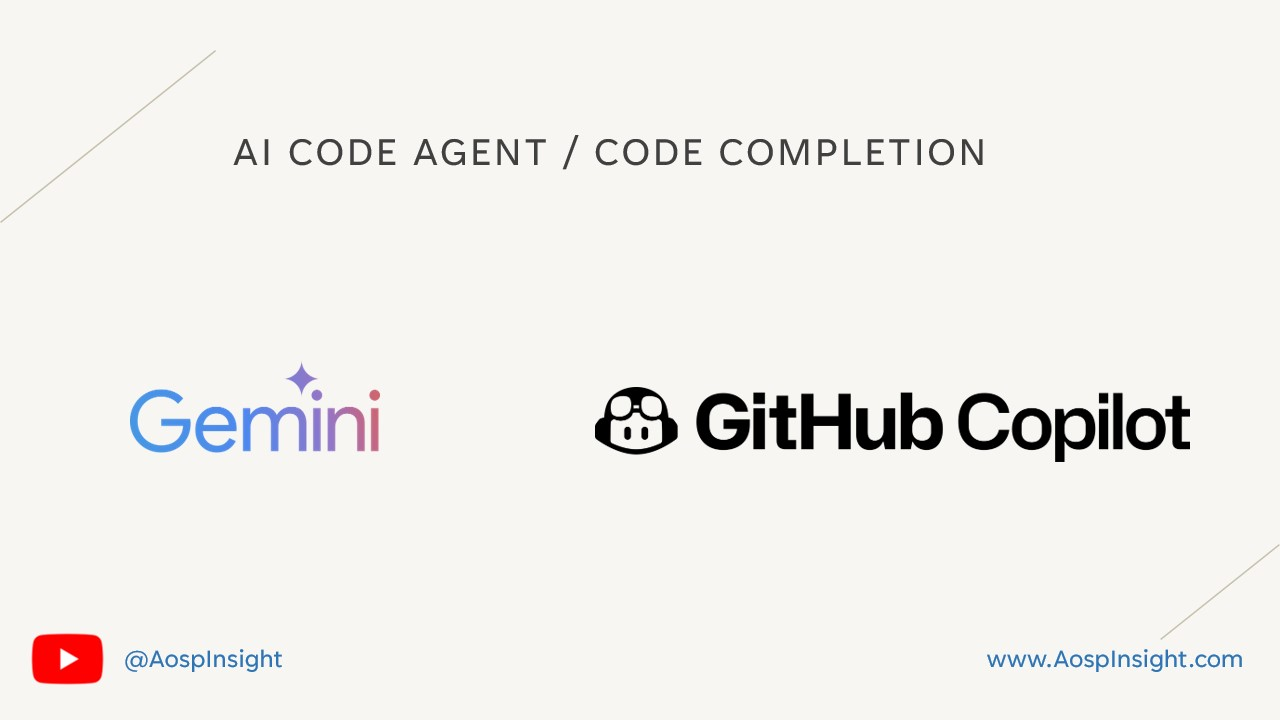
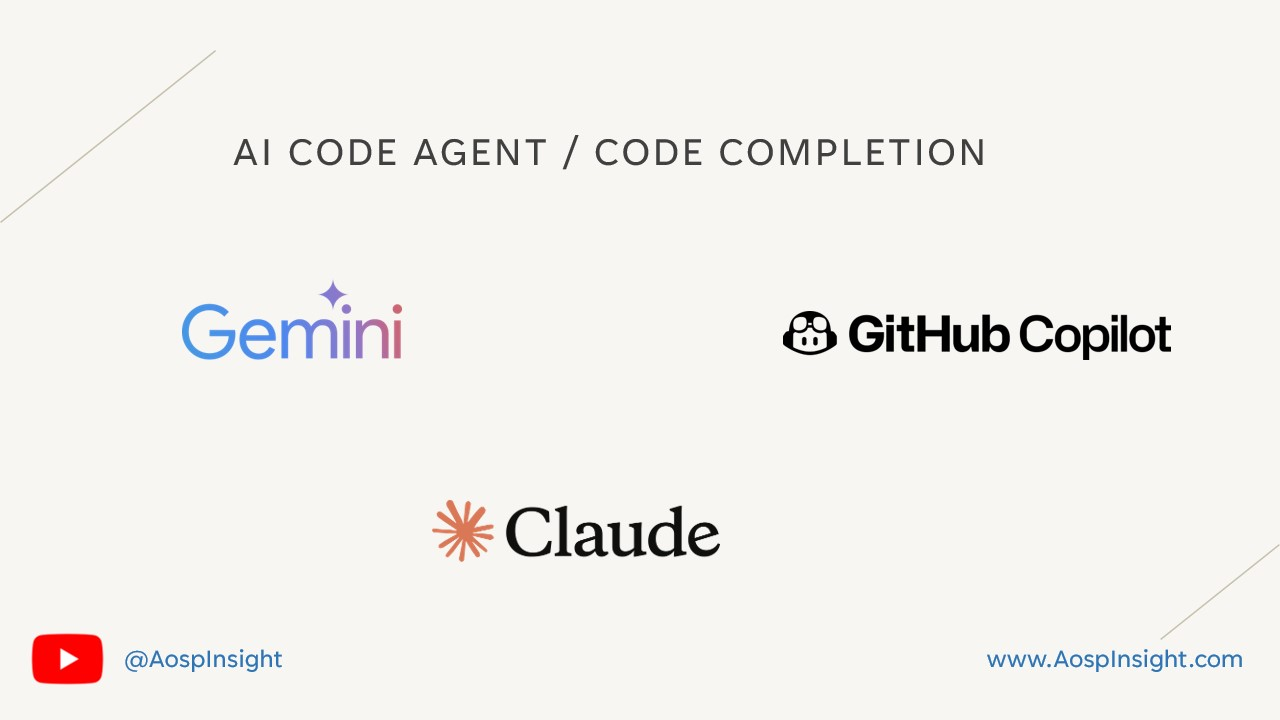
Feature/update slides 1 (#3)
* Update .gitignore
* Update a slide and README file

diff --git a/README.md b/README.md
@@ -1,5 +1,12 @@
 # AndroidDevelopmentWithCopilot
-This repo is an example on how to use Copilot to develop an Android application
+This repo is an example on how use AI to develop an Android application.
+This repo was used to compare the three new AI code assistant:
+- **GPT-4o**
+- **Claude Sonnet 3.7**
+- **Gemini 2.5**
+
+The IDE used to compare them was VSCode. You can check the video through the link below:
+ 
 
 ## Project definition
 
